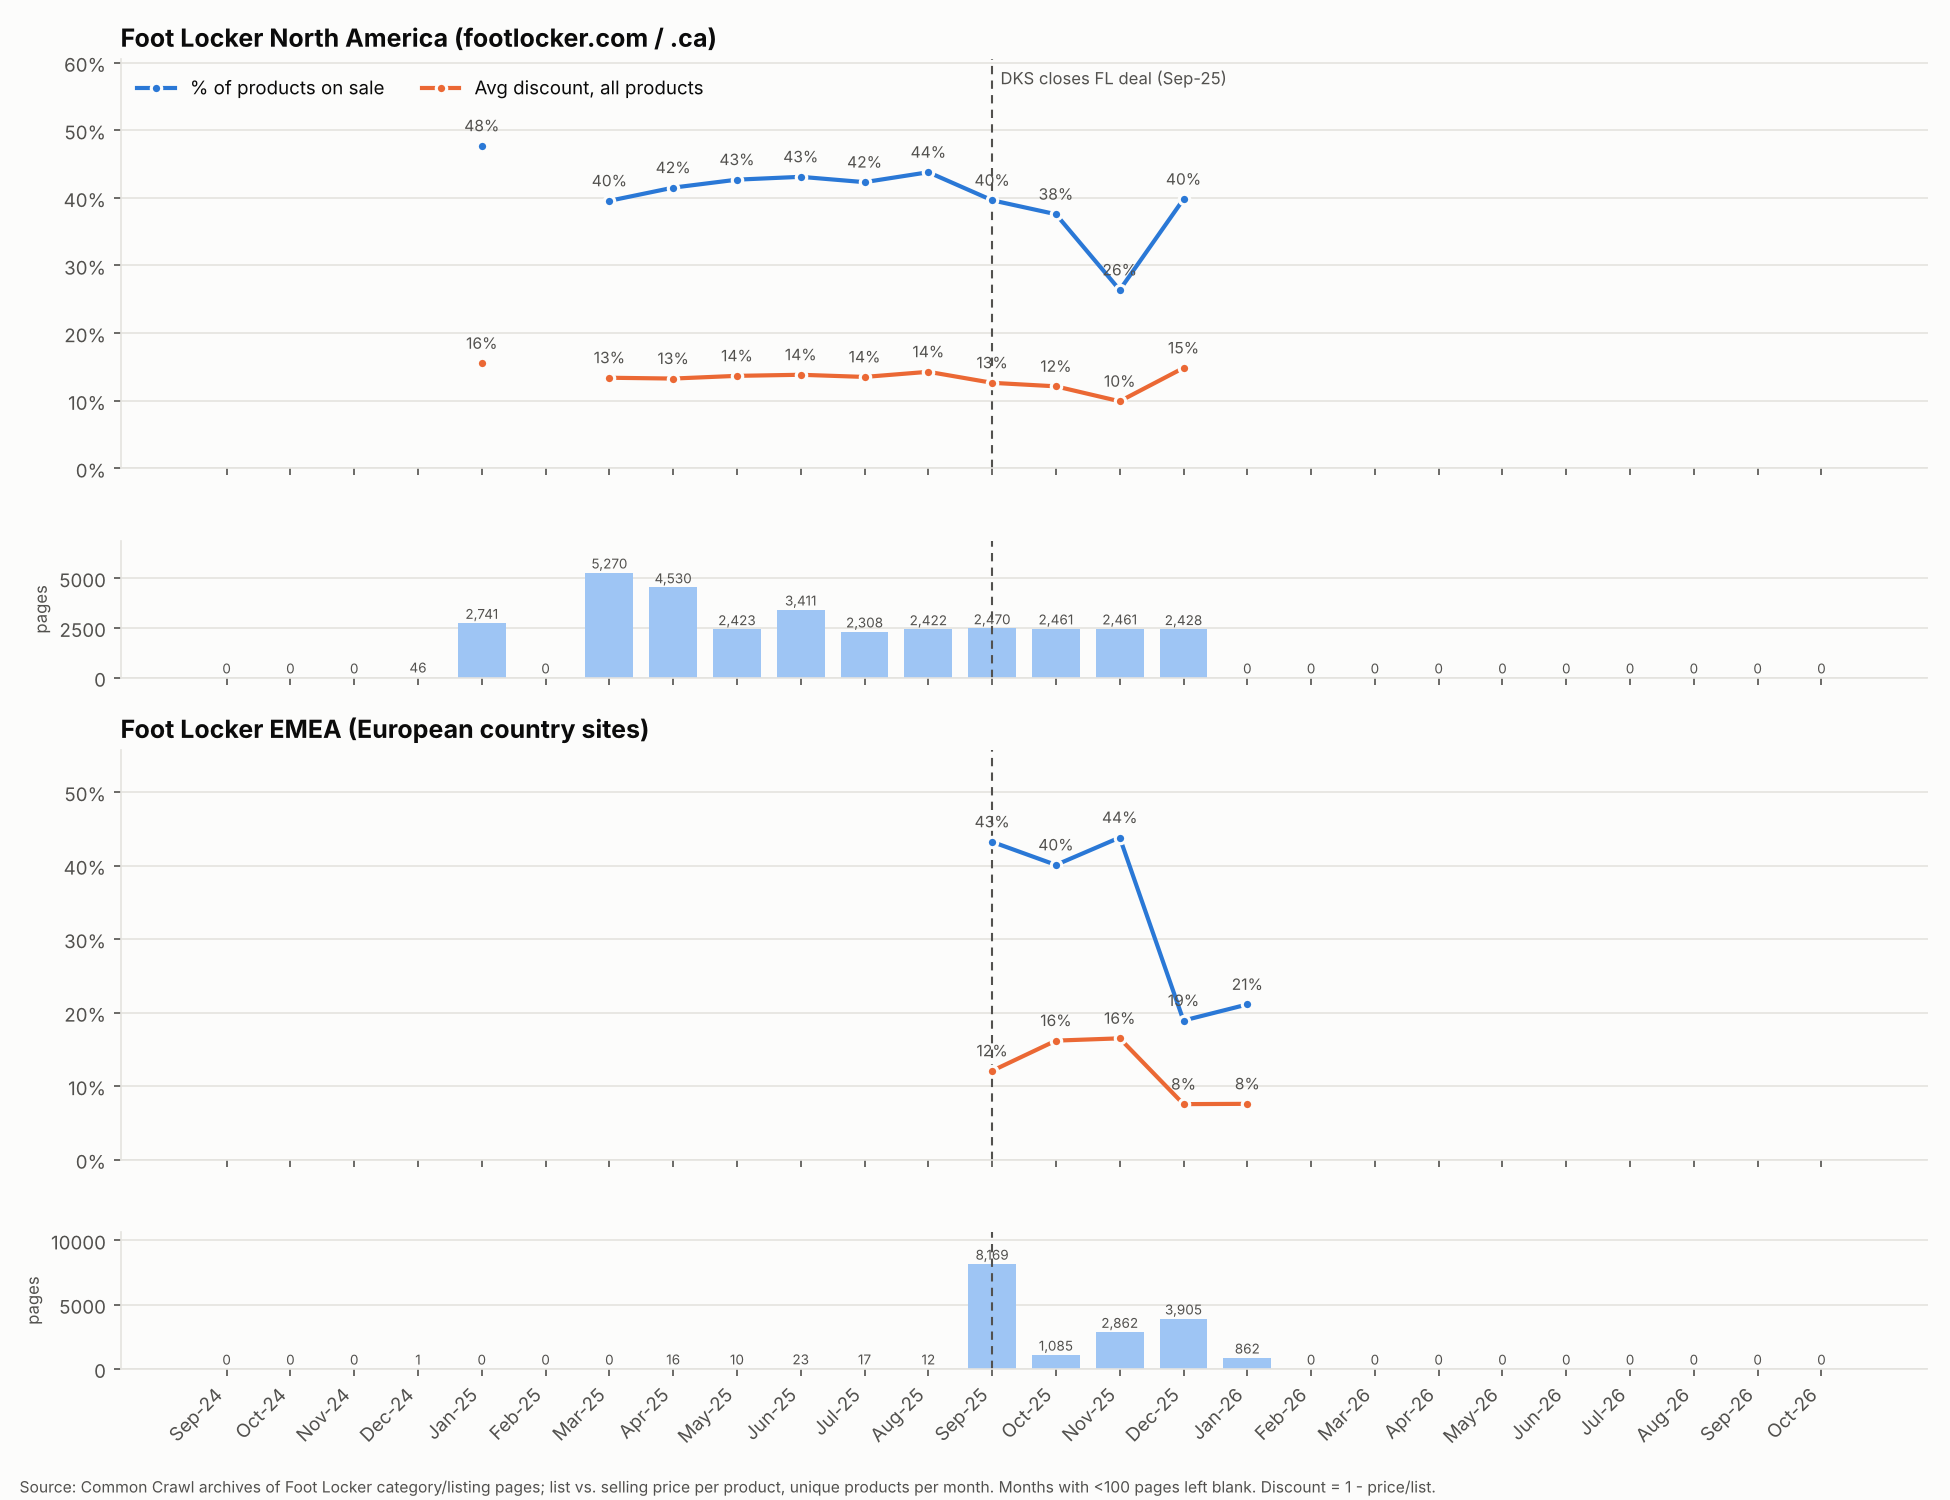
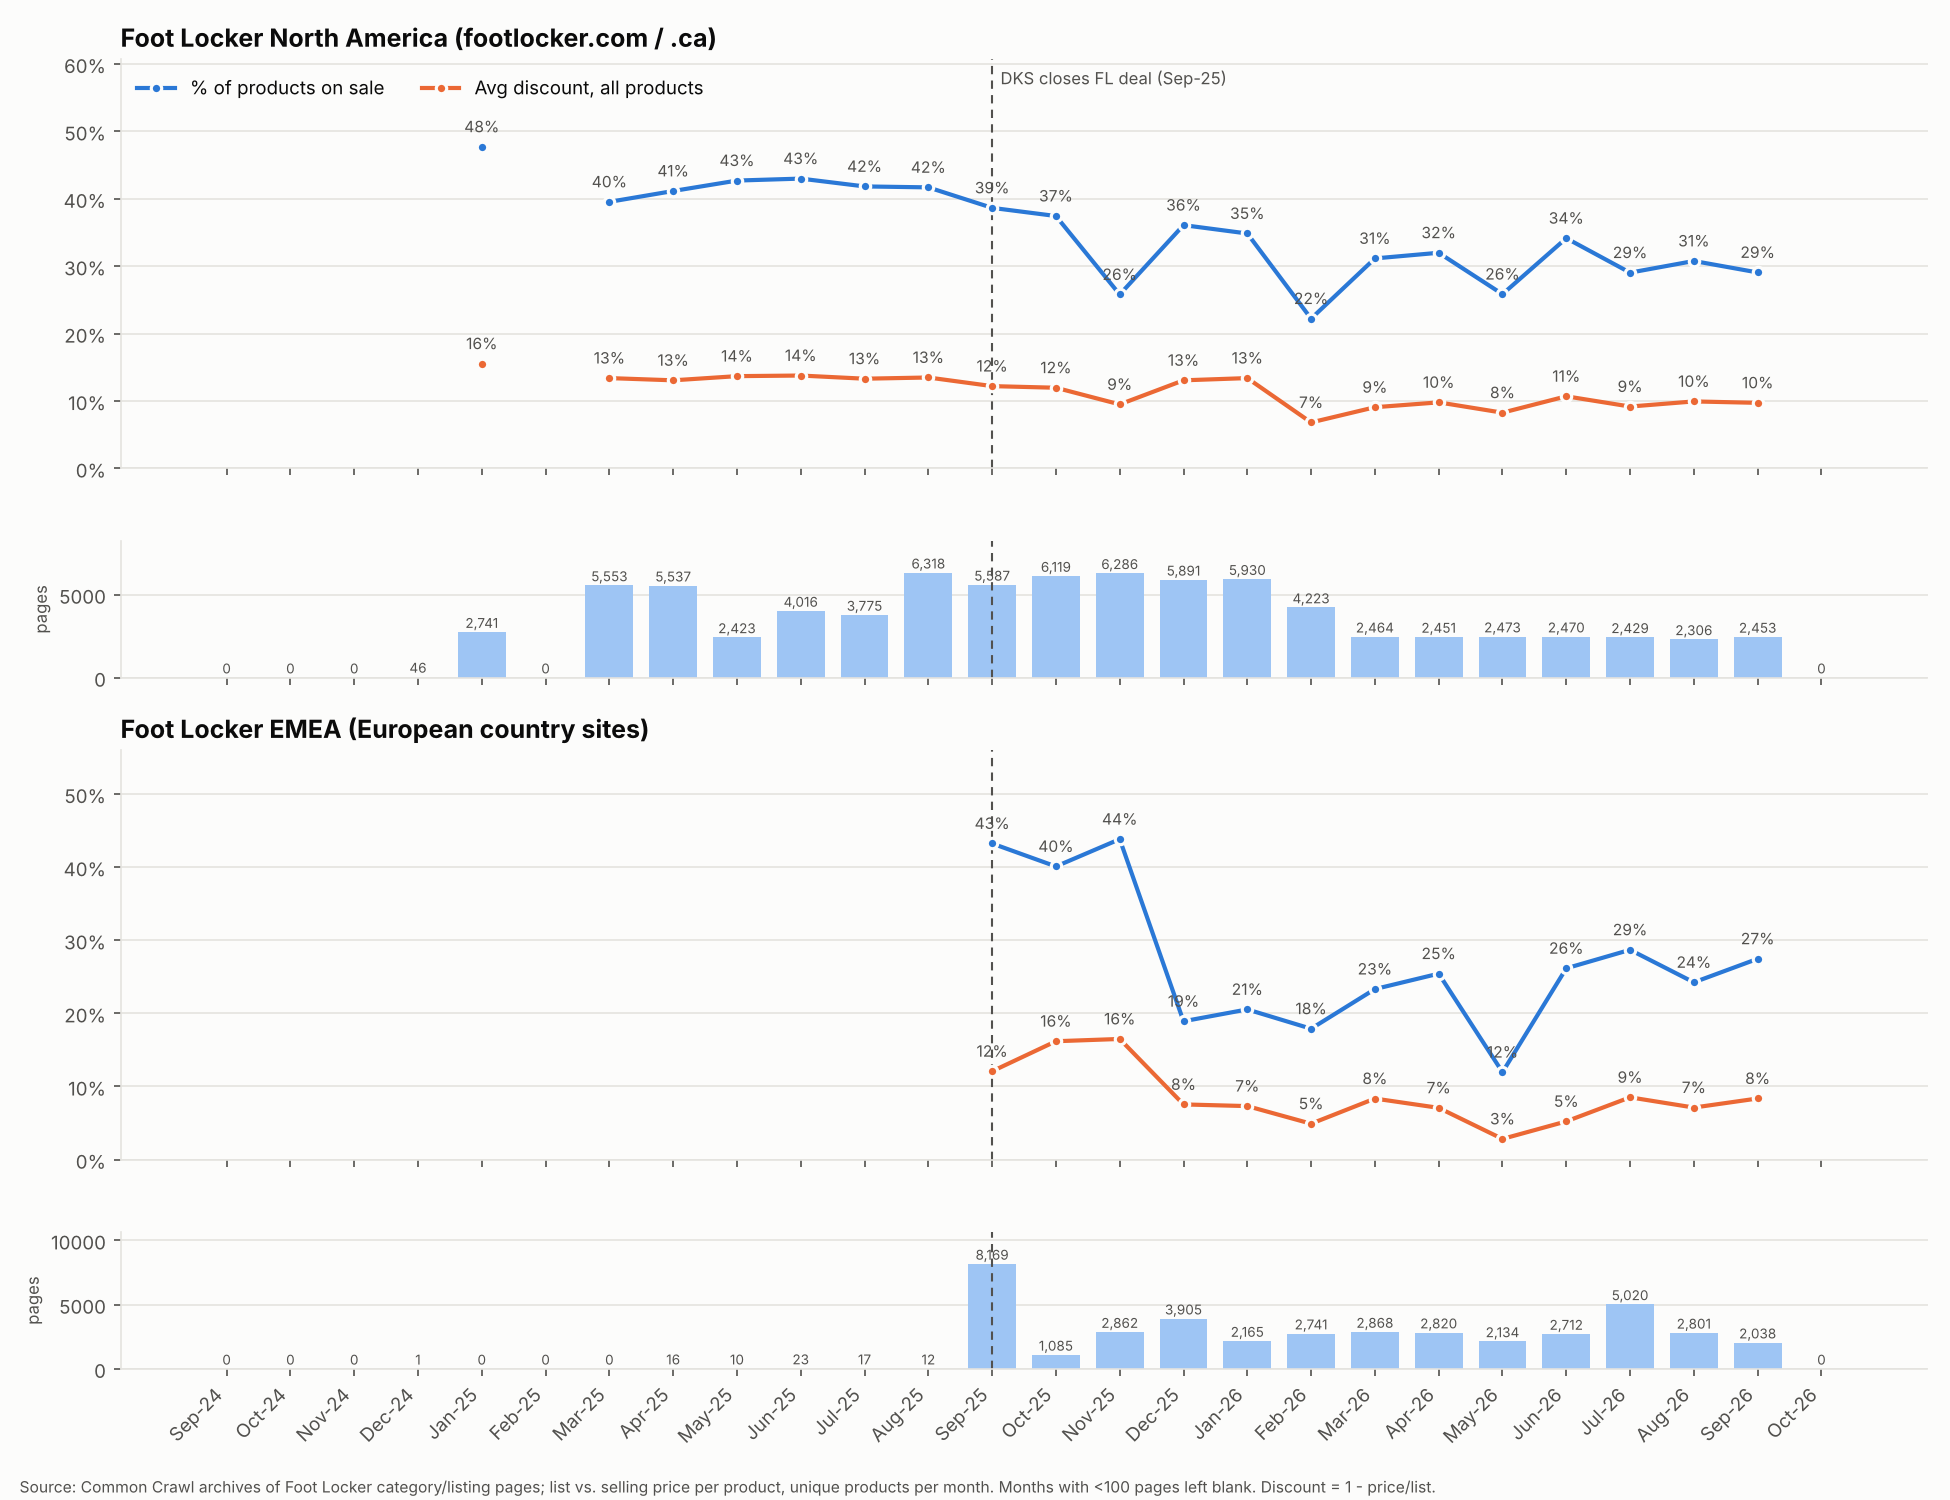
Foot Locker discount scrape: final data, chart and summary
Common Crawl Sep 2024-Sep 2026: 122,890 listing pages, 2.65M product
price observations for Foot Locker NA and EMEA.

Claude-Session: https://claude.ai/code/session_01HFkAdzRDGd38z4GhS4jFep

diff --git a/ALT_DATA/footlocker_discounts/scripts/aggregate.py b/ALT_DATA/footlocker_discounts/scripts/aggregate.py
@@ -49,6 +49,9 @@ def main():
             if j.get("n", 0) <= 0:
                 continue
             c["pages_with_products"] += 1
+            d8 = int(j["ts"][:8])
+            c["first_capture"] = min(c.get("first_capture") or d8, d8)
+            c["last_capture"] = max(c.get("last_capture") or d8, d8)
             c["src_" + j.get("src", "?")] += 1
             c["fmt_" + j.get("fmt", "?")] += 1
             for p in j["products"]:
@@ -82,7 +85,8 @@ def main():
         for (reg, m, seg), (n, ns, sd, sds) in sorted(agg.items()):
             w.writerow([reg, m[:4] + "-" + m[4:], seg, n, round(ns / n, 4), round(sd / n, 4),
                         round(sds / ns, 4) if ns else ""])
-    cols = ["pages_fetched", "pages_with_products", "src_cc", "src_wb", "fmt_cat", "fmt_seo", "fmt_rx", "product_obs"]
+    cols = ["pages_fetched", "pages_with_products", "src_cc", "src_wb", "fmt_cat", "fmt_seo", "fmt_rx", "product_obs",
+            "first_capture", "last_capture"]
     months = []
     y, mo = int(START[:4]), int(START[4:])
     while "%04d%02d" % (y, mo) <= END:

diff --git a/ALT_DATA/footlocker_discounts/output/SUMMARY.md b/ALT_DATA/footlocker_discounts/output/SUMMARY.md
@@ -1,0 +1,86 @@
+# Foot Locker discount scrape (NA + EMEA), Sep 2024 – Oct 2026
+
+Built 2026-10-11 from Common Crawl archives. Chart: `fl_discount_chart.png`. Data: `monthly_metrics.csv`, `pages_per_month.csv`.
+
+## Headline
+
+- **Foot Locker NA put fewer products on sale in 2026 than in 2025.** Mar–Sep average: **41% of products on sale (2025) → 30% (2026)**. Average discount across all products: **13.3% → 9.5%**.
+- **How deep each discount goes didn't change** (about 31–33% off for items on sale, both years). The drop is in *how many* items are discounted, not *how much*.
+- **The drop shows up everywhere we sliced it:** US only (38% → 28%), Nike/Jordan (40% → 29%), other brands (42% → 32%), category pages (42% → 31%) and `/buy/` pages (41% → 30%). So it isn't caused by Canada, brand mix or page-type mix.
+- **EMEA:** 42% of products on sale in Sep–Nov 2025, then **about 23% from Jan–Sep 2026**. The average discount fell from 14.9% to 6.6%. The step down came in Dec 2025, and it shows in the UK, Germany and France individually.
+- **The Dick's deal (closed 2025-09-08)** comes right before the decline in both regions. My interpretation: this fits less discounting under new ownership, but the data can't prove the cause.
+
+## Conflicts with the research notes (flagged, not resolved)
+
+- Dick's said Q2 FY26 (May–Jul 2026) was an "increasingly aggressive promotional environment" that hit Foot Locker hardest. Foot Locker's gross margin was 25.7%, with "promo on legacy silhouettes" (`CORE_NOTES/00_CORE_DIGEST.md` › Q2 FY26 print, 2026-08-25).
+- The scrape shows **no rise in the share of website products on sale** in May–Aug 2026 compared with 2025. There's a small bump in Jun 2026 (34%), but it's still below Jun 2025 (43%).
+- **Possible reasons (my inference):** discounts given at checkout (promo codes, loyalty offers, bundles) or in stores never show up as list price vs. sale price on category pages. Price-matching on specific products would also barely move a share-of-products measure. The margin hit could also be clearance sold through other channels.
+
+## Monthly results
+
+The capture window is the dates within each month when Common Crawl's crawler visited.
+
+| Month | NA pages | NA % on sale | NA avg disc | US % on sale | EMEA pages | EMEA % on sale | EMEA avg disc | Capture window |
+|---|---|---|---|---|---|---|---|---|
+| 2024-09 to 11 | 0 | – | – | – | 0 | – | – | Common Crawl blocked by Foot Locker |
+| 2024-12 | 46 | – | – | – | 1 | – | – | too few pages |
+| 2025-01 | 2,741 | 47.7% | 15.5% | 46.1% | 0 | – | – | Jan 12–25 |
+| 2025-02 | 0 | – | – | – | 0 | – | – | blocked |
+| 2025-03 | 5,553 | 39.5% | 13.4% | 38.2% | 0 | – | – | Mar 15–28 |
+| 2025-04 | 5,537 | 41.1% | 13.1% | 36.3% | 16 | – | – | Apr 17–30 |
+| 2025-05 | 2,423 | 42.7% | 13.7% | 39.3% | 10 | – | – | May 12–25 |
+| 2025-06 | 4,016 | 43.0% | 13.8% | 39.1% | 23 | – | – | Jun 12–25 |
+| 2025-07 | 3,775 | 41.8% | 13.3% | 36.1% | 17 | – | – | Jul 8–20 |
+| 2025-08 | 6,318 | 41.7% | 13.5% | 37.5% | 12 | – | – | Aug 2–15 |
+| 2025-09 | 5,587 | 38.6% | 12.2% | 36.6% | 8,169 | 43.2% | 12.1% | Sep 5–18 |
+| 2025-10 | 6,119 | 37.4% | 12.0% | 34.2% | 1,085 | 40.1% | 16.2% | Oct 5–18 |
+| 2025-11 | 6,286 | 25.8% | 9.5% | 23.9% | 2,862 | 43.8% | 16.5% | Nov 6–19 (before Black Friday) |
+| 2025-12 | 5,891 | 36.1% | 13.1% | 34.9% | 3,905 | 18.9% | 7.5% | Dec 4–17 |
+| 2026-01 | 5,930 | 34.8% | 13.4% | 34.2% | 2,165 | 20.5% | 7.3% | Jan 12–25 |
+| 2026-02 | 4,223 | 22.2% | 6.8% | 17.4% | 2,741 | 17.9% | 4.9% | Feb 6–19 |
+| 2026-03 | 2,464 | 31.1% | 9.1% | 27.1% | 2,868 | 23.3% | 8.3% | Mar 5–17 |
+| 2026-04 | 2,451 | 32.0% | 9.8% | 30.5% | 2,820 | 25.4% | 7.1% | Apr 10–23 |
+| 2026-05 | 2,473 | 25.8% | 8.3% | 25.6% | 2,134 | 11.9% | 2.8% | May 8–21 |
+| 2026-06 | 2,470 | 34.1% | 10.7% | 31.6% | 2,712 | 26.2% | 5.2% | Jun 5–18 |
+| 2026-07 | 2,429 | 29.0% | 9.2% | 26.1% | 5,020 | 28.7% | 8.5% | Jul 10–23 |
+| 2026-08 | 2,306 | 30.8% | 9.9% | 28.3% | 2,801 | 24.2% | 7.1% | Aug 7–19 |
+| 2026-09 | 2,453 | 29.1% | 9.7% | 25.9% | 2,038 | 27.5% | 8.3% | Sep 4–17 |
+| 2026-10 | 0 | – | – | – | 0 | – | – | no crawl yet |
+
+**Totals:** 122,890 pages with prices and 2.65M product price readings. NA averages **3,134 pages a month** (20 of 26 months have 2,000+). EMEA has 12 months with 2,000+ (Sep 2025 – Sep 2026, except Oct 2025 at 1,085).
+
+## Method
+
+1. **Source:** Common Crawl's index for all 25 crawls from Sep 2024 to Sep 2026, filtered to Foot Locker storefronts. NA = footlocker.com and footlocker.ca. EMEA = every Foot Locker Europe country site found; UK, Germany, France and the Netherlands make up most of it.
+2. **Pages:** archived category, `/buy/` and search listing pages (status 200), downloaded straight from the crawl archive files. NA was capped at 2,500 randomly chosen pages per month in each crawl. EMEA took every page.
+3. **Prices:** read from the page's embedded product data. Category grids give `originalPrice` vs `price`. `/buy/` grids give `price_range` list price vs purchase price.
+4. **Unit:** each unique product per region per month. A product seen several times in a month is averaged.
+   - % on sale = share of products priced more than 0.5% below list.
+   - Avg discount = average of (1 − price / list) across *all* products, counting full-price items as 0 (the same as the second line on your Dick's chart).
+   - Depth = the average discount among on-sale products only.
+5. **Changes from your Dick's method:**
+   - Added `/buy/` pages. They're Foot Locker's search landing pages, with the same price fields.
+   - Swapped the "national brand" split for Nike/Jordan vs. other brands, since nearly everything Foot Locker sells is a national brand.
+
+## Caveats
+
+- **Gaps:** Foot Locker blocked Common Crawl's crawler in Sep–Nov 2024 and Feb 2025, so those months have no data. The Wayback Machine (the planned backup) is blocked from this cloud environment, and other web archives were too.
+- **EMEA before Sep 2025** has fewer than 25 pages a month, too few to use, so it's left blank.
+- **Timing:** each month is a roughly 2-week snapshot (see the capture windows). The Nov 2025 dip (captured Nov 6–19) probably reflects the weeks just before Black Friday, not the whole month.
+- **Canada** runs a much higher on-sale share than the US (44–62% vs 24–38% in Aug–Dec 2025), so the NA total moves a little with Canada's share of the pages. The US-only column removes that effect.
+- **What the method misses:** only prices visible on the page count. Checkout codes, loyalty offers and in-store markdowns don't show up.
+- **Size of the 2025 sample:** some 2025 NA months have more than 2,500 pages, because restarts sampled extra pages. That adds sample size but doesn't bias the results; the page-type split above confirms this.
+
+## Files
+
+- `scripts/`:
+  - `cc_scrape.py`: index and download
+  - `flparse.py`: price parser
+  - `aggregate.py`: monthly metrics
+  - `chart.py`: the chart
+  - `wb_scrape.py`: Wayback scraper, unused because Wayback is blocked
+  - `run_cc_fetch.sh`, `sync.sh`: run and snapshot helpers
+- `data/cdx/`: Foot Locker capture index for each crawl
+- `data/pages/`: every parsed page with its products, list price and price
+- `output/monthly_metrics.csv`: region × month × segment. Segments: all, fmt_cat, fmt_seo, nike_jordan, non_nike, country_XX.
+- `output/pages_per_month.csv`: pages, sources, page types, product readings and capture dates for each month
